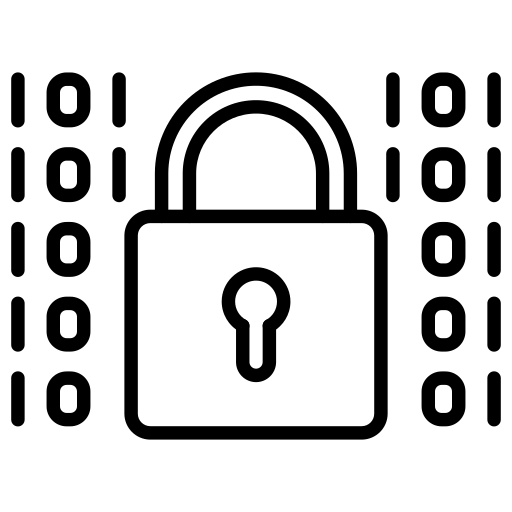
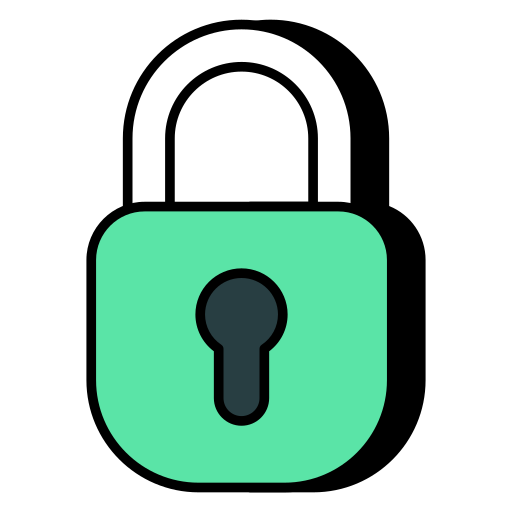
Changed ImageIcon of program, also added underlines to button texts to signift its shortcut buttons (to be implemented).

diff --git a/JavaEncryptionProgramGUI/src/EncryptionProgramGUI/EncryptionProgramGUIMain.java b/JavaEncryptionProgramGUI/src/EncryptionProgramGUI/EncryptionProgramGUIMain.java
@@ -9,7 +9,7 @@ import java.awt.event.*;
 import java.util.ArrayList;
 import java.util.Collections;
 
-public class EncryptionProgramGUIMain extends JFrame implements ActionListener {
+public class EncryptionProgramGUIMain extends JFrame implements ActionListener, KeyListener {
 
 	private static final long serialVersionUID = 1L; // added to get rid of warning
 
@@ -53,7 +53,7 @@ public class EncryptionProgramGUIMain extends JFrame implements ActionListener {
 	JTextArea keyArea;
 	JScrollPane keyPane;
 
-	// TODO: find another icon for program, an icon with a more solid background
+	// DONE: find another icon for program, an icon with a more solid background
 	final ImageIcon encryptionProgramIcon = new ImageIcon("encryptionProgramPhoto.png");
 	final ImageIcon encryptIcon = new ImageIcon("encryptionPhoto.png");
 	final ImageIcon decryptIcon = new ImageIcon("decryptionPhoto.png");
@@ -73,7 +73,7 @@ public class EncryptionProgramGUIMain extends JFrame implements ActionListener {
 		// TODO: export the program into a jar file with an icon
 		// TODO: add music or background sounds to program
 		new EncryptionProgramGUIMain();
-		// TODO: add ImageIcon for our program
+		// DONE: add ImageIcon for our program
 
 	}
 
@@ -97,9 +97,10 @@ public class EncryptionProgramGUIMain extends JFrame implements ActionListener {
 
 		createNewKey(); // generates a new key
 
-		this.setIconImage(encryptionProgramIcon.getImage());
+		this.setIconImage(encryptionProgramIcon.getImage()); // setting icon for our JFrame
 
 		this.setTitle("Encryption Program");
+		this.addKeyListener(this);
 		this.setDefaultCloseOperation(JFrame.EXIT_ON_CLOSE);
 		this.setResizable(false);
 
@@ -136,24 +137,31 @@ public class EncryptionProgramGUIMain extends JFrame implements ActionListener {
 
 		newKeyButton = new JButton("New Key");
 		newKeyButton.setIcon(newKeyIcon);
+		newKeyButton.setMnemonic(KeyEvent.VK_N); // adds an underline to a specified character
 
 		getKeyButton = new JButton("Get Key");
 		getKeyButton.setIcon(getKeyIcon);
+		getKeyButton.setMnemonic(KeyEvent.VK_G);
 
 		encryptMessageButton = new JButton("Encrypt Message");
 		encryptMessageButton.setIcon(encryptIcon);
+		encryptMessageButton.setMnemonic(KeyEvent.VK_E);
 
 		decryptMessageButton = new JButton("Decrypt Message");
 		decryptMessageButton.setIcon(decryptIcon);
+		decryptMessageButton.setMnemonic(KeyEvent.VK_D);
 
 		aboutProgramButton = new JButton("About Program");
 		aboutProgramButton.setIcon(aboutProgramIcon);
+		aboutProgramButton.setMnemonic(KeyEvent.VK_A);
 
 		asciiTableButton = new JButton("ASCII Table");
 		asciiTableButton.setIcon(asciiTableIcon);
+		asciiTableButton.setMnemonic(KeyEvent.VK_I);
 
 		exitProgramButton = new JButton("Exit");
 		exitProgramButton.setIcon(exitIcon);
+		exitProgramButton.setMnemonic(KeyEvent.VK_X);
 
 		programButtons[0] = newKeyButton;
 		programButtons[1] = getKeyButton;
@@ -384,6 +392,21 @@ public class EncryptionProgramGUIMain extends JFrame implements ActionListener {
 		if (exitConfirmChoice == JOptionPane.YES_OPTION) {
 			System.exit(0);
 		}
+	}
+
+	@Override
+	public void keyPressed(KeyEvent arg0) {
+
+	}
+
+	@Override
+	public void keyReleased(KeyEvent arg0) {
+		System.out.println(arg0.getKeyChar());
+	}
+
+	@Override
+	public void keyTyped(KeyEvent arg0) {
+
 	}
 
 }
